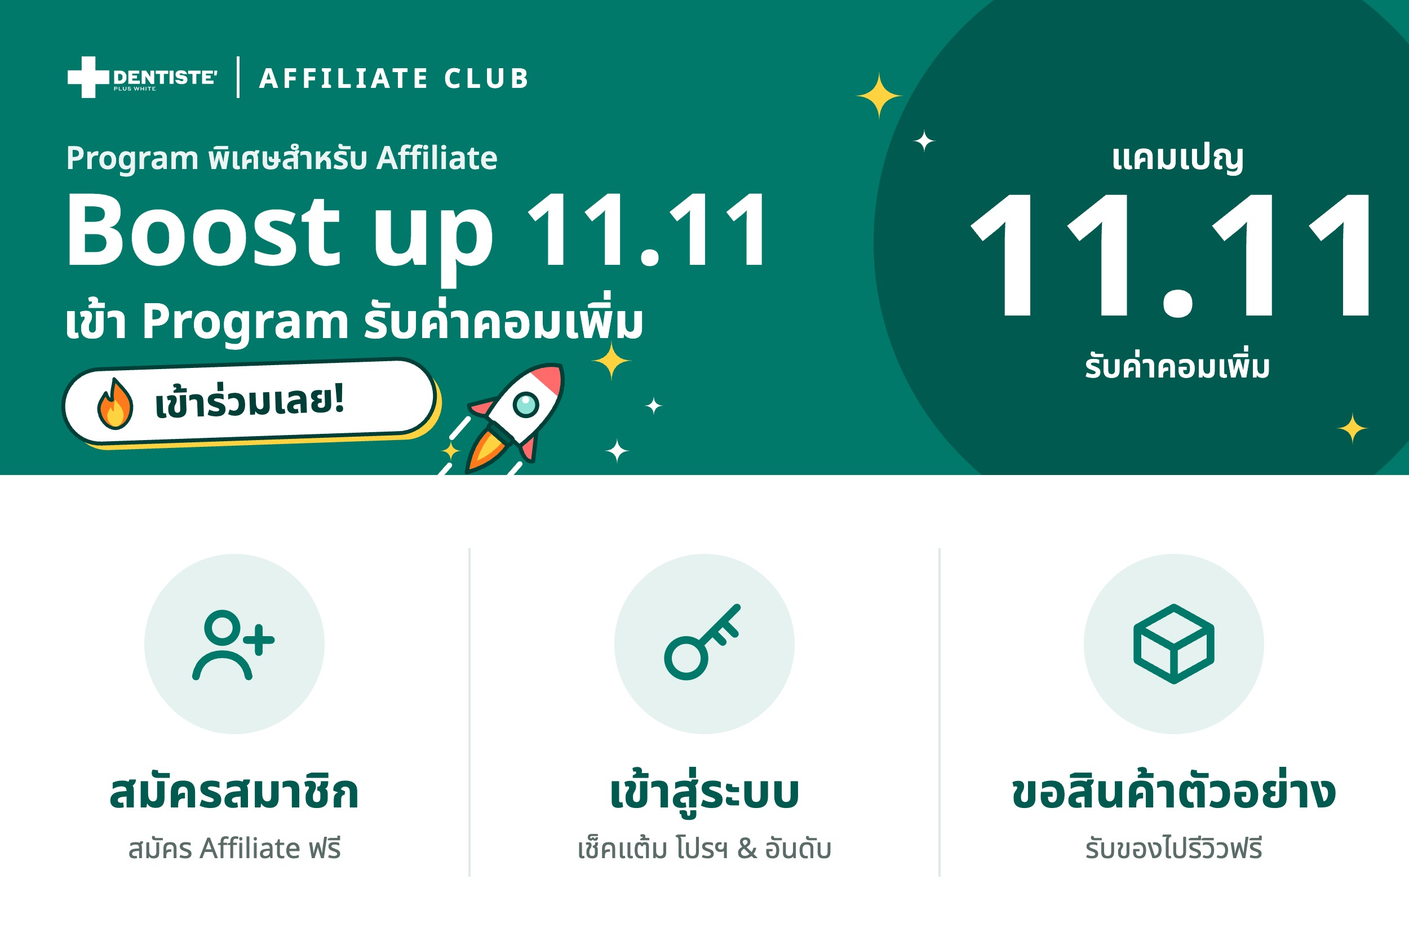
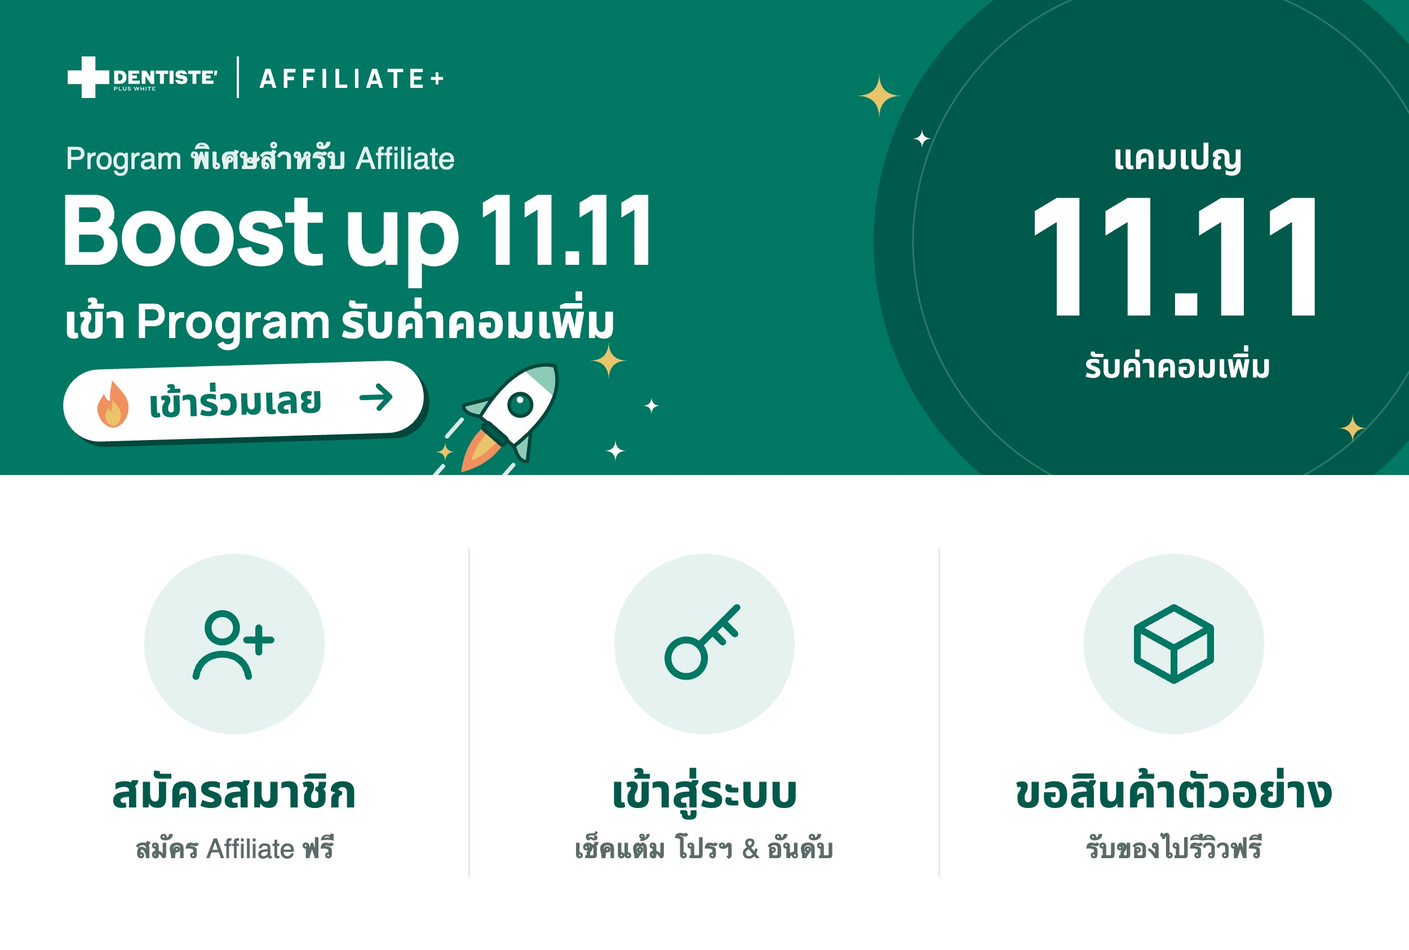
Add files via upload

diff --git a/index.html b/index.html
@@ -3,35 +3,38 @@
 <head>
 <meta charset="utf-8">
 <meta name="viewport" content="width=device-width, initial-scale=1, viewport-fit=cover">
-<title>Affiliate Club</title>
+<title>Dentiste Affiliate+</title>
 <link rel="preconnect" href="https://fonts.googleapis.com">
-<link href="https://fonts.googleapis.com/css2?family=Noto+Sans+Thai:wght@400;600;700&display=swap" rel="stylesheet">
+<link rel="preconnect" href="https://fonts.gstatic.com" crossorigin>
+<link href="https://fonts.googleapis.com/css2?family=Manrope:wght@400;500;600;700;800&family=Noto+Sans+Thai:wght@400;500;600;700&display=swap" rel="stylesheet">
 <style>
   /* ===== Dentiste' CI ===== */
+  /* ฟอนต์ตาม CI: อังกฤษ Manrope / ไทย DB Helvethaica (ใช้ได้เมื่อเครื่องมีฟอนต์หรือใส่ไฟล์ฟอนต์ที่มีลิขสิทธิ์) — สำรองด้วย Noto Sans Thai */
   :root {
     color-scheme: light;
-    --green: #00786A; --green-dark: #005A50; --green-tint: #E6F2F0; --green-hi: #12A08F;
-    --ink: #0F2A26; --muted: #5B6B68; --line: rgba(0, 90, 80, .12);
+    --font: 'Manrope', 'DB Helvethaica X', 'DB HelvethaicaX', 'DB Helvethaica', 'Noto Sans Thai', -apple-system, system-ui, sans-serif;
+    --green: #007864; --green-dark: #005A4B; --green-tint: #E6F2EF; --green-hi: #2E9480;
+    --ink: #10302A; --muted: #5B6B68; --line: rgba(0, 90, 75, .12);
     --warn: #B45309; --warn-tint: rgba(254, 243, 199, .85); --bad: #B91C1C; --bad-tint: rgba(254, 226, 226, .85); --info: #1D4ED8; --info-tint: rgba(219, 234, 254, .85);
     --radius: 24px;
     /* Liquid Glass recipe */
     --glass-fill: rgba(255, 255, 255, .52);
     --glass-edge: rgba(255, 255, 255, .75);
     --glass-blur: blur(22px) saturate(185%);
-    --glass-shadow: inset 0 1px 0 rgba(255,255,255,.95), inset 0 -1px 1px rgba(255,255,255,.35), 0 10px 30px rgba(0, 90, 80, .12), 0 1px 2px rgba(0, 90, 80, .08);
+    --glass-shadow: inset 0 1px 0 rgba(255,255,255,.95), inset 0 -1px 1px rgba(255,255,255,.35), 0 10px 30px rgba(0, 90, 75, .12), 0 1px 2px rgba(0, 90, 75, .08);
     --fill-soft: rgba(255, 255, 255, .62);
   }
   * { box-sizing: border-box; -webkit-tap-highlight-color: transparent; }
-  html, body { margin: 0; color: var(--ink); font-family: 'Noto Sans Thai', -apple-system, system-ui, sans-serif; font-size: 15px; line-height: 1.5; }
-  html { background: #E9F3F1; }
+  html, body { margin: 0; color: var(--ink); font-family: var(--font); font-size: 15px; line-height: 1.5; }
+  html { background: #EEF5F2; }
   body { min-height: 100vh; padding-bottom: calc(104px + env(safe-area-inset-bottom)); }
 
   /* ===== พื้นหลังให้กระจกมีอะไรหักเห (Brand ambient) ===== */
-  .ambient { position: fixed; inset: 0; z-index: -1; overflow: hidden; background: #EAF4F2; }
+  .ambient { position: fixed; inset: 0; z-index: -1; overflow: hidden; background: #EEF5F2; }
   .ambient i { position: absolute; border-radius: 50%; filter: blur(60px); opacity: .75; }
-  .ambient i:nth-child(1) { width: 340px; height: 340px; left: -110px; top: -120px; background: #00786A; opacity: .55; }
-  .ambient i:nth-child(2) { width: 300px; height: 300px; right: -120px; top: 140px; background: #5CC8B8; }
-  .ambient i:nth-child(3) { width: 360px; height: 360px; left: 10%; bottom: -160px; background: #9ADBD0; }
+  .ambient i:nth-child(1) { width: 340px; height: 340px; left: -110px; top: -120px; background: #007864; opacity: .55; }
+  .ambient i:nth-child(2) { width: 300px; height: 300px; right: -120px; top: 140px; background: #8CC9B6; }
+  .ambient i:nth-child(3) { width: 360px; height: 360px; left: 10%; bottom: -160px; background: #C5E3D8; }
   .ambient i:nth-child(4) { width: 180px; height: 180px; right: 12%; bottom: 22%; background: #FFFFFF; opacity: .9; }
 
   /* ===== วัสดุกระจก ===== */
@@ -50,8 +53,10 @@
   /* ===== Header — Large title แบบ iOS ===== */
   header { padding: calc(22px + env(safe-area-inset-top)) 20px 18px; }
   header .brand { display: inline-flex; align-items: center; gap: 8px; padding: 5px 12px 5px 6px; border-radius: 999px; font-size: 11px; font-weight: 700; letter-spacing: .08em; text-transform: uppercase; color: var(--green-dark); }
-  header .brand .dot { width: 20px; height: 20px; border-radius: 50%; background: var(--green); display: grid; place-items: center; color: #fff; font-size: 11px; letter-spacing: 0; }
-  header h1 { margin: 12px 0 0; font-size: 30px; line-height: 1.2; font-weight: 700; letter-spacing: -.01em; color: var(--green-dark); }
+  header .brand { padding: 7px 14px; gap: 10px; letter-spacing: .14em; }
+  header .brand-logo { height: 15px; width: auto; display: block; }
+  header .brand-sep { width: 1px; height: 14px; background: var(--green); opacity: .45; }
+  header h1 { margin: 14px 0 0; font-size: 30px; line-height: 1.2; font-weight: 700; letter-spacing: -.02em; color: var(--green-dark); }
   header p { margin: 4px 0 0; color: var(--muted); font-size: 14px; }
   main { padding: 0 16px; }
 
@@ -63,9 +68,9 @@
   /* ===== Form ===== */
   label { display: block; font-weight: 600; font-size: 14px; margin: 16px 0 6px; }
   label .req { color: var(--bad); }
-  input, select, textarea { width: 100%; padding: 12px 14px; border: 1px solid var(--line); border-radius: 14px; font: inherit; background: var(--fill-soft); color: var(--ink); box-shadow: inset 0 1px 2px rgba(0,90,80,.06); transition: box-shadow .2s, border-color .2s, background .2s; -webkit-appearance: none; appearance: none; }
+  input, select, textarea { width: 100%; padding: 12px 14px; border: 1px solid var(--line); border-radius: 14px; font: inherit; background: var(--fill-soft); color: var(--ink); box-shadow: inset 0 1px 2px rgba(0,90,75,.06); transition: box-shadow .2s, border-color .2s, background .2s; -webkit-appearance: none; appearance: none; }
   select { background-image: linear-gradient(45deg, transparent 50%, var(--green) 50%), linear-gradient(135deg, var(--green) 50%, transparent 50%); background-position: calc(100% - 20px) 52%, calc(100% - 15px) 52%; background-size: 5px 5px; background-repeat: no-repeat; padding-right: 36px; }
-  input:focus, select:focus, textarea:focus { outline: none; background-color: rgba(255,255,255,.9); border-color: rgba(0,120,106,.55); box-shadow: 0 0 0 4px rgba(0,120,106,.16); }
+  input:focus, select:focus, textarea:focus { outline: none; background-color: rgba(255,255,255,.9); border-color: rgba(0,120,100,.55); box-shadow: 0 0 0 4px rgba(0,120,100,.16); }
   textarea { min-height: 76px; resize: vertical; }
   .row2 { display: grid; grid-template-columns: 1fr 1fr; gap: 10px; }
   .chips { display: flex; flex-wrap: wrap; gap: 8px; }
@@ -79,7 +84,7 @@
 
   /* ===== ปุ่ม — capsule, teal glass tint ===== */
   .btn { display: block; width: 100%; border: 0; border-radius: 999px; padding: 14px; font: inherit; font-weight: 700; color: #fff; cursor: pointer; text-align: center; text-decoration: none;
-    background: var(--green); box-shadow: 0 6px 16px rgba(0,120,106,.25);
+    background: var(--green); box-shadow: 0 6px 16px rgba(0,120,100,.25);
     transition: transform .15s, background .2s; }
   .btn:active { transform: scale(.97); background: var(--green-dark); }
   .btn[disabled] { background: rgba(120, 140, 137, .28); color: rgba(15,42,38,.45); box-shadow: inset 0 1px 0 rgba(255,255,255,.6); cursor: not-allowed; transform: none; }
@@ -106,7 +111,7 @@
   /* ===== ตัวเลข / Progress ===== */
   .stat { display: flex; justify-content: space-between; align-items: baseline; }
   .big { font-size: 32px; font-weight: 700; color: var(--green-dark); letter-spacing: -.01em; }
-  .bar { height: 12px; border-radius: 999px; background: rgba(0,90,80,.08); box-shadow: inset 0 1px 2px rgba(0,90,80,.12); overflow: hidden; margin: 12px 0 8px; }
+  .bar { height: 12px; border-radius: 999px; background: rgba(0,90,75,.08); box-shadow: inset 0 1px 2px rgba(0,90,75,.12); overflow: hidden; margin: 12px 0 8px; }
   .bar > div { height: 100%; border-radius: 999px; background: var(--green); transition: width .5s cubic-bezier(.2,.8,.2,1); }
   .steps { display: grid; gap: 8px; margin-top: 12px; }
   .step { display: flex; justify-content: space-between; padding: 11px 14px; border-radius: 16px; font-size: 14px; background: rgba(255,255,255,.45); border: 1px solid var(--line); }
@@ -121,8 +126,8 @@
   .inline input { flex: 1; }
   .code { font-size: 32px; font-weight: 700; letter-spacing: 6px; text-align: center; padding: 16px; border-radius: 18px; color: var(--green-dark); background: var(--green-tint); }
 
-  /* ===== บัตรสมาชิก Affiliate Club (สี CI ทึบ) ===== */
-  .mcard { position: relative; overflow: hidden; background: var(--green); color: #fff; border-radius: 24px; padding: 20px 22px; aspect-ratio: 1.586; display: flex; flex-direction: column; justify-content: space-between; margin-bottom: 14px; box-shadow: 0 14px 30px rgba(0,90,80,.28); }
+  /* ===== บัตรสมาชิก Dentiste Affiliate+ (สี CI ทึบ) ===== */
+  .mcard { position: relative; overflow: hidden; background: var(--green); color: #fff; border-radius: 24px; padding: 20px 22px; aspect-ratio: 1.586; display: flex; flex-direction: column; justify-content: space-between; margin-bottom: 14px; box-shadow: 0 14px 30px rgba(0,90,75,.28); }
   .mcard::before { content: ''; position: absolute; width: 280px; height: 280px; border-radius: 50%; background: var(--green-dark); right: -110px; top: -130px; }
   .mcard::after { content: ''; position: absolute; width: 190px; height: 190px; border-radius: 50%; background: var(--green-dark); left: -90px; bottom: -120px; }
   .mcard > * { position: relative; z-index: 1; }
@@ -146,7 +151,7 @@
   .seg { display: grid; grid-template-columns: 1fr 1fr; padding: 4px; border-radius: 999px; margin-bottom: 14px; }
   .seg button { border: 0; background: transparent; font: inherit; font-size: 14px; font-weight: 600; color: var(--muted); padding: 9px; border-radius: 999px; cursor: pointer; transition: background .2s, color .2s; }
   .seg button.on { background: var(--green); color: #fff; }
-  .myrank { display: flex; align-items: center; gap: 14px; background: var(--green); color: #fff; border-radius: 22px; padding: 14px 18px; margin-bottom: 14px; box-shadow: 0 10px 24px rgba(0,90,80,.22); }
+  .myrank { display: flex; align-items: center; gap: 14px; background: var(--green); color: #fff; border-radius: 22px; padding: 14px 18px; margin-bottom: 14px; box-shadow: 0 10px 24px rgba(0,90,75,.22); }
   .myrank .no { font-size: 30px; font-weight: 700; line-height: 1; }
   .myrank .t { flex: 1; font-size: 13px; opacity: .92; }
   .myrank .v { font-size: 17px; font-weight: 700; text-align: right; }
@@ -154,7 +159,8 @@
   .pd { display: flex; flex-direction: column; align-items: center; text-align: center; min-width: 0; }
   .pd .av { width: 54px; height: 54px; border-radius: 50%; display: grid; place-items: center; font-size: 20px; font-weight: 700; background: #fff; color: var(--green-dark); border: 3px solid var(--green); position: relative; }
   .pd.p1 .av { width: 66px; height: 66px; font-size: 24px; }
-  .pd .crown { position: absolute; top: -16px; font-size: 18px; }
+  .pd .crown { position: absolute; top: -20px; width: 26px; height: 26px; fill: var(--green); stroke: #fff; stroke-width: 1.4; stroke-linejoin: round; }
+  .prod .img .ph { width: 44%; height: 44%; fill: none; stroke: var(--green); stroke-width: 1.4; stroke-linecap: round; stroke-linejoin: round; opacity: .8; }
   .pd .nm { font-size: 13px; font-weight: 700; margin-top: 6px; max-width: 100%; overflow: hidden; text-overflow: ellipsis; white-space: nowrap; }
   .pd .vl { font-size: 12px; color: var(--muted); }
   .pd .base { width: 100%; margin-top: 8px; border-radius: 16px 16px 10px 10px; display: grid; place-items: center; font-size: 26px; font-weight: 700; color: #fff; background: var(--green); }
@@ -170,10 +176,12 @@
   .lb .row.me .rk { background: var(--green); color: #fff; }
 
   /* ===== Boost Program ===== */
-  .boost-hero { position: relative; overflow: hidden; background: var(--green); color: #fff; border-radius: 26px; padding: 22px; margin-bottom: 14px; box-shadow: 0 14px 30px rgba(0,90,80,.28); }
+  .boost-hero { position: relative; overflow: hidden; background: var(--green); color: #fff; border-radius: 26px; padding: 22px; margin-bottom: 14px; box-shadow: 0 14px 30px rgba(0,90,75,.28); }
   .boost-hero::after { content: ''; position: absolute; width: 230px; height: 230px; border-radius: 50%; background: var(--green-dark); right: -60px; top: -40px; }
   .boost-hero > * { position: relative; z-index: 1; }
-  .boost-hero .kick { font-size: 12px; font-weight: 700; letter-spacing: .14em; text-transform: uppercase; opacity: .9; }
+  .boost-hero .kick { display: flex; align-items: center; gap: 10px; font-size: 12px; font-weight: 700; letter-spacing: .14em; text-transform: uppercase; }
+  .boost-hero .kick img { height: 18px; width: auto; display: block; }
+  .boost-hero .kick span { padding-left: 10px; border-left: 1px solid rgba(255,255,255,.6); }
   .boost-hero .big11 { font-size: 64px; line-height: 1; font-weight: 700; letter-spacing: -.02em; margin: 6px 0 2px; }
   .boost-hero .ttl { font-size: 22px; font-weight: 700; }
   .boost-hero .chips2 { display: flex; flex-wrap: wrap; gap: 8px; margin-top: 14px; }
@@ -202,7 +210,7 @@
   .mockbar[hidden] { display: none; }
 
   .center { text-align: center; padding: 40px 18px; }
-  .spinner { width: 34px; height: 34px; border: 3px solid rgba(0,120,106,.15); border-top-color: var(--green); border-radius: 50%; animation: spin .8s linear infinite; margin: 0 auto 12px; }
+  .spinner { width: 34px; height: 34px; border: 3px solid rgba(0,120,100,.15); border-top-color: var(--green); border-radius: 50%; animation: spin .8s linear infinite; margin: 0 auto 12px; }
   @keyframes spin { to { transform: rotate(360deg); } }
   .empty { text-align: center; color: var(--muted); padding: 24px 0; }
   a { color: var(--green); }
@@ -213,11 +221,11 @@
   }
   @media (prefers-reduced-transparency: reduce) {
     .card, .prod, nav, .mockbar { background: #fff; -webkit-backdrop-filter: none; backdrop-filter: none; }
-    .toast { background: #0F2A26; -webkit-backdrop-filter: none; backdrop-filter: none; }
+    .toast { background: #10302A; -webkit-backdrop-filter: none; backdrop-filter: none; }
     .ambient i { display: none; }
   }
   @media (prefers-contrast: more) {
-    :root { --glass-fill: rgba(255,255,255,.9); --line: rgba(0,90,80,.35); --muted: #3B4A47; }
+    :root { --glass-fill: rgba(255,255,255,.9); --line: rgba(0,90,75,.35); --muted: #3B4A47; }
   }
   @media (prefers-reduced-motion: reduce) { * { transition: none !important; } }
 </style>
@@ -226,8 +234,8 @@
 <div class="ambient" aria-hidden="true"><i></i><i></i><i></i><i></i></div>
 <div id="mockbar" class="mockbar" hidden>โหมดตัวอย่าง (Prototype) — ข้อมูลจำลอง ไม่ได้เชื่อมระบบจริง</div>
 <header>
-  <span class="brand glass"><span class="dot">D</span>Dentiste' · Affiliate Club</span>
-  <h1 id="h-title">Affiliate Club</h1><p id="h-sub">กำลังโหลด…</p>
+  <span class="brand glass"><img class="brand-logo" src="logo-green.png" alt="Dentiste'" onerror="this.remove()"><span class="brand-sep"></span>Affiliate+</span>
+  <h1 id="h-title">Dentiste Affiliate+</h1><p id="h-sub">กำลังโหลด…</p>
 </header>
 <main id="app"><div class="card center"><div class="spinner"></div><div class="muted">กำลังโหลด…</div></div></main>
 <nav id="nav" hidden>
@@ -289,7 +297,7 @@ async function boot() {
       state.page = p.get('page') || state.page; state.ref = p.get('ref') || state.ref; state.campaign = p.get('c') || state.campaign;
     }
     state.me = await api('me', { ref: state.ref, campaign: state.campaign });
-    $('#h-title').textContent = state.me.brand || 'Affiliate Club';
+    $('#h-title').textContent = state.me.brand || 'Dentiste Affiliate+';
     const approved = state.me.affiliate && state.me.affiliate.status === 'approved';
     if (!approved && state.page !== 'register' && state.page !== 'boost') state.page = 'register';
     if (approved && state.page === 'register') state.page = 'me';
@@ -385,7 +393,7 @@ async function pageCatalog() {
       </div>
       ${d.products.length ? `<div class="grid">${d.products.map(p => `
         <div class="prod">
-          <div class="img">${p.image_url ? `<img src="${esc(p.image_url)}" alt="" loading="lazy">` : '📦'}</div>
+          <div class="img">${p.image_url ? `<img src="${esc(p.image_url)}" alt="" loading="lazy">` : '<svg class="ph" viewBox="0 0 24 24"><path d="M21 8 12 3 3 8v8l9 5 9-5z"/><path d="M3 8l9 5 9-5M12 13v8"/></svg>'}</div>
           <div class="b">
             <span class="name">${esc(p.name)}</span>
             <span class="muted">${esc(p.category || '')}${p.commission_note ? ' · ' + esc(p.commission_note) : ''}</span>
@@ -426,7 +434,7 @@ async function pageRequests() {
 
 /* ---------- แต้ม ยอดขาย Bonus ---------- */
 async function pageMe() {
-  header('บัตรสมาชิก & แต้ม', 'Affiliate Club ของคุณ');
+  header('บัตรสมาชิก & แต้ม', 'Dentiste Affiliate+ ของคุณ');
   loading();
   try {
     const d = await api('dashboard');
@@ -440,7 +448,7 @@ async function pageMe() {
         <h2>Bonus ยอดขายเดือนนี้ (${esc(d.period)})</h2>
         <div class="stat"><span class="muted">ยอดขาย</span><span class="big">฿${fmt(d.sales_this_month)}</span></div>
         <div class="bar"><div style="width:${pct}%"></div></div>
-        <div class="muted">${b.next ? `ขายเพิ่มอีก <b>฿${fmt(b.remaining)}</b> ถึงขั้น ${b.next.step} รับ Bonus ${fmt(b.next.bonus)} ${esc(b.unit)}` : (b.current ? 'ถึงขั้นสูงสุดแล้ว 🎉' : '')}</div>
+        <div class="muted">${b.next ? `ขายเพิ่มอีก <b>฿${fmt(b.remaining)}</b> ถึงขั้น ${b.next.step} รับ Bonus ${fmt(b.next.bonus)} ${esc(b.unit)}` : (b.current ? 'ถึงขั้นสูงสุดแล้ว' : '')}</div>
         <div class="steps">${steps.map(s => `<div class="step ${b.current && s.step <= b.current.step ? 'hit' : ''}"><span>ขั้น ${s.step} · ขาย ฿${fmt(s.min_sales)}+</span><b>+${fmt(s.bonus)} ${esc(b.unit)}</b></div>`).join('')}</div>
         <p class="muted" style="margin-bottom:0">ยอดเดือนที่แล้ว ฿${fmt(d.sales_last_month)} · ยอดขายอัปเดตเมื่อทีมนำเข้ารายงานจากแพลตฟอร์ม</p>
       </div>
@@ -451,11 +459,11 @@ async function pageMe() {
   } catch (e) { app.innerHTML = `<div class="card center">${esc(e.message)}</div>`; }
 }
 
-/* ---------- บัตรสมาชิก Affiliate Club ---------- */
+/* ---------- บัตรสมาชิก Dentiste Affiliate+ ---------- */
 function memberCard(a, rank) {
   const r = rank && rank.rank ? `<div class="mc-rank"><span>อันดับเดือนนี้</span><b>#${rank.rank}</b></div>` : '';
   return `<div class="mcard">
-    <div class="mc-top"><img class="mc-logo" src="logo-white.png" alt="Dentiste'" onerror="this.remove()"><span class="mc-logo-txt">Dentiste'</span><span class="mc-sep"></span><span class="mc-tag">Affiliate Club</span></div>
+    <div class="mc-top"><img class="mc-logo" src="logo-white.png" alt="Dentiste'" onerror="this.remove()"><span class="mc-logo-txt">Dentiste'</span><span class="mc-sep"></span><span class="mc-tag">Affiliate+</span></div>
     <div class="mc-mid"><b>${fmt(a.points)}</b><span>แต้มสะสม</span></div>
     <div class="mc-bot">
       <div><div class="mc-name">${esc(a.full_name)}</div><div class="mc-sub">${esc(a.affiliate_id)} · รหัสชวน ${esc(a.my_ref_code || '-')}<br>สมาชิกตั้งแต่ ${esc(a.registered_at)}</div></div>
@@ -474,7 +482,7 @@ async function pageLeaderboard(by) {
     const val = v => by === 'sales' ? '฿' + fmt(v) : fmt(v) + ' แต้ม';
     const ini = n => esc(String(n || '?').trim().charAt(0));
     const t = d.top, has = t.length && t.some(x => x.value > 0);
-    const pd = (x, cls) => x ? `<div class="pd ${cls} ${x.me ? 'me' : ''}"><div class="av">${cls === 'p1' ? '<span class="crown">👑</span>' : ''}${ini(x.name)}</div><div class="nm">${esc(x.me ? 'คุณ' : x.name)}</div><div class="vl">${val(x.value)}</div><div class="base">${x.rank}</div></div>` : '<div></div>';
+    const pd = (x, cls) => x ? `<div class="pd ${cls} ${x.me ? 'me' : ''}"><div class="av">${cls === 'p1' ? '<svg class="crown" viewBox="0 0 24 24"><path d="M3 8l4.5 4L12 5l4.5 7L21 8l-2 10H5z"/></svg>' : ''}${ini(x.name)}</div><div class="nm">${esc(x.me ? 'คุณ' : x.name)}</div><div class="vl">${val(x.value)}</div><div class="base">${x.rank}</div></div>` : '<div></div>';
     app.innerHTML = `
       <div class="seg glass"><button data-by="sales" class="${by === 'sales' ? 'on' : ''}">ยอดขายเดือนนี้</button><button data-by="points" class="${by === 'points' ? 'on' : ''}">แต้มสะสม</button></div>
       ${d.me ? `<div class="myrank"><div class="no">#${d.me.rank}</div><div class="t">อันดับของคุณ<br>จาก ${fmt(d.total)} คน</div><div class="v">${val(d.me.value)}</div></div>` : ''}
@@ -503,10 +511,10 @@ async function pageBoost() {
     else if (p.state === 'ended') cta = '<button class="btn" disabled>ปิดรับแล้ว</button>';
     else if (d.member_status === 'approved') cta = '<button class="btn" id="join">เข้าร่วม Program รับค่าคอมเพิ่ม</button>';
     else if (d.member_status === 'pending') cta = '<button class="btn" disabled>รออนุมัติสมาชิก — เข้าร่วมได้หลังอนุมัติ</button>';
-    else cta = '<button class="btn" id="toreg">สมัครสมาชิก Affiliate ก่อน (ฟรี)</button><p class="muted" style="text-align:center">เฉพาะสมาชิก Affiliate Club ที่ได้รับอนุมัติ</p>';
+    else cta = '<button class="btn" id="toreg">สมัครสมาชิก Affiliate ก่อน (ฟรี)</button><p class="muted" style="text-align:center">เฉพาะสมาชิก Dentiste Affiliate+ ที่ได้รับอนุมัติ</p>';
     app.innerHTML = `
       <div class="boost-hero">
-        <div class="kick">Dentiste' · Affiliate Club</div>
+        <div class="kick"><img src="logo-white.png" alt="Dentiste'" onerror="this.remove()"><span>Affiliate+</span></div>
         <div class="big11">${esc(m ? m[0] : '')}</div>
         <div class="ttl">${esc(p.title)}</div>
         ${p.extra_commission ? `<div class="comm"><span>ค่าคอมเพิ่ม</span><b>${esc(p.extra_commission)}</b></div>` : ''}
@@ -529,7 +537,7 @@ async function pageRewards() {
     app.innerHTML = `
       <div class="card stat"><span class="muted">แต้มที่ใช้ได้</span><span class="big">${fmt(d.points)}</span></div>
       ${d.rewards.length ? `<div class="grid">${d.rewards.map(r => `
-        <div class="prod"><div class="img">${r.image_url ? `<img src="${esc(r.image_url)}" alt="" loading="lazy">` : '🎁'}</div>
+        <div class="prod"><div class="img">${r.image_url ? `<img src="${esc(r.image_url)}" alt="" loading="lazy">` : '<svg class="ph" viewBox="0 0 24 24"><path d="M4 11h16v10H4zM3 7h18v4H3zM12 7v14"/><path d="M12 7c-1.5-3-5-3.5-5-1.2C7 7 9 7 12 7c3 0 5 0 5-1.2C17 3.5 13.5 4 12 7z"/></svg>'}</div>
           <div class="b"><span class="name">${esc(r.name)}</span><span class="muted">${fmt(r.points_cost)} แต้ม · เหลือ ${r.stock}</span>
           <button class="btn" data-rw="${esc(r.reward_id)}" data-cost="${r.points_cost}" ${d.points >= r.points_cost ? '' : 'disabled'}>${d.points >= r.points_cost ? 'แลก' : 'แต้มไม่พอ'}</button></div></div>`).join('')}</div>` : '<div class="card empty">ยังไม่มีรางวัล</div>'}
       ${d.redemptions.length ? `<div class="card list" style="margin-top:12px"><h2>รายการที่แลกแล้ว</h2>${d.redemptions.map(x => `<div class="item"><div class="top"><span>${esc(x.reward_name)}</span><span class="badge ${x.status === 'shipped' ? 'good' : x.status === 'rejected' ? 'bad' : 'warn'}">${esc(x.status_th)}</span></div><div class="muted">${esc(x.date)} · ${fmt(x.points_cost)} แต้ม</div></div>`).join('')}</div>` : ''}`;
@@ -583,7 +591,7 @@ function mockApi(action, d) {
   const addPts = (type, p) => { db.points += p; db.acts.unshift({ type, points: p, verified: true, date: 'วันนี้' }); };
   const pub = () => db.aff && Object.assign({}, db.aff, { points: db.points });
   switch (action) {
-    case 'me': return wait({ name: 'ผู้ทดสอบ', lead_ref: d.ref || '', affiliate: pub(), brand: 'Affiliate Club' });
+    case 'me': return wait({ name: 'ผู้ทดสอบ', lead_ref: d.ref || '', affiliate: pub(), brand: 'Dentiste Affiliate+' });
     case 'register': {
       const f = d.form;
       for (const k of ['full_name', 'phone', 'platform', 'channel_url', 'address', 'province', 'postcode']) if (!String(f[k] || '').trim()) return fail('กรุณากรอกข้อมูลที่มี * ให้ครบ');
